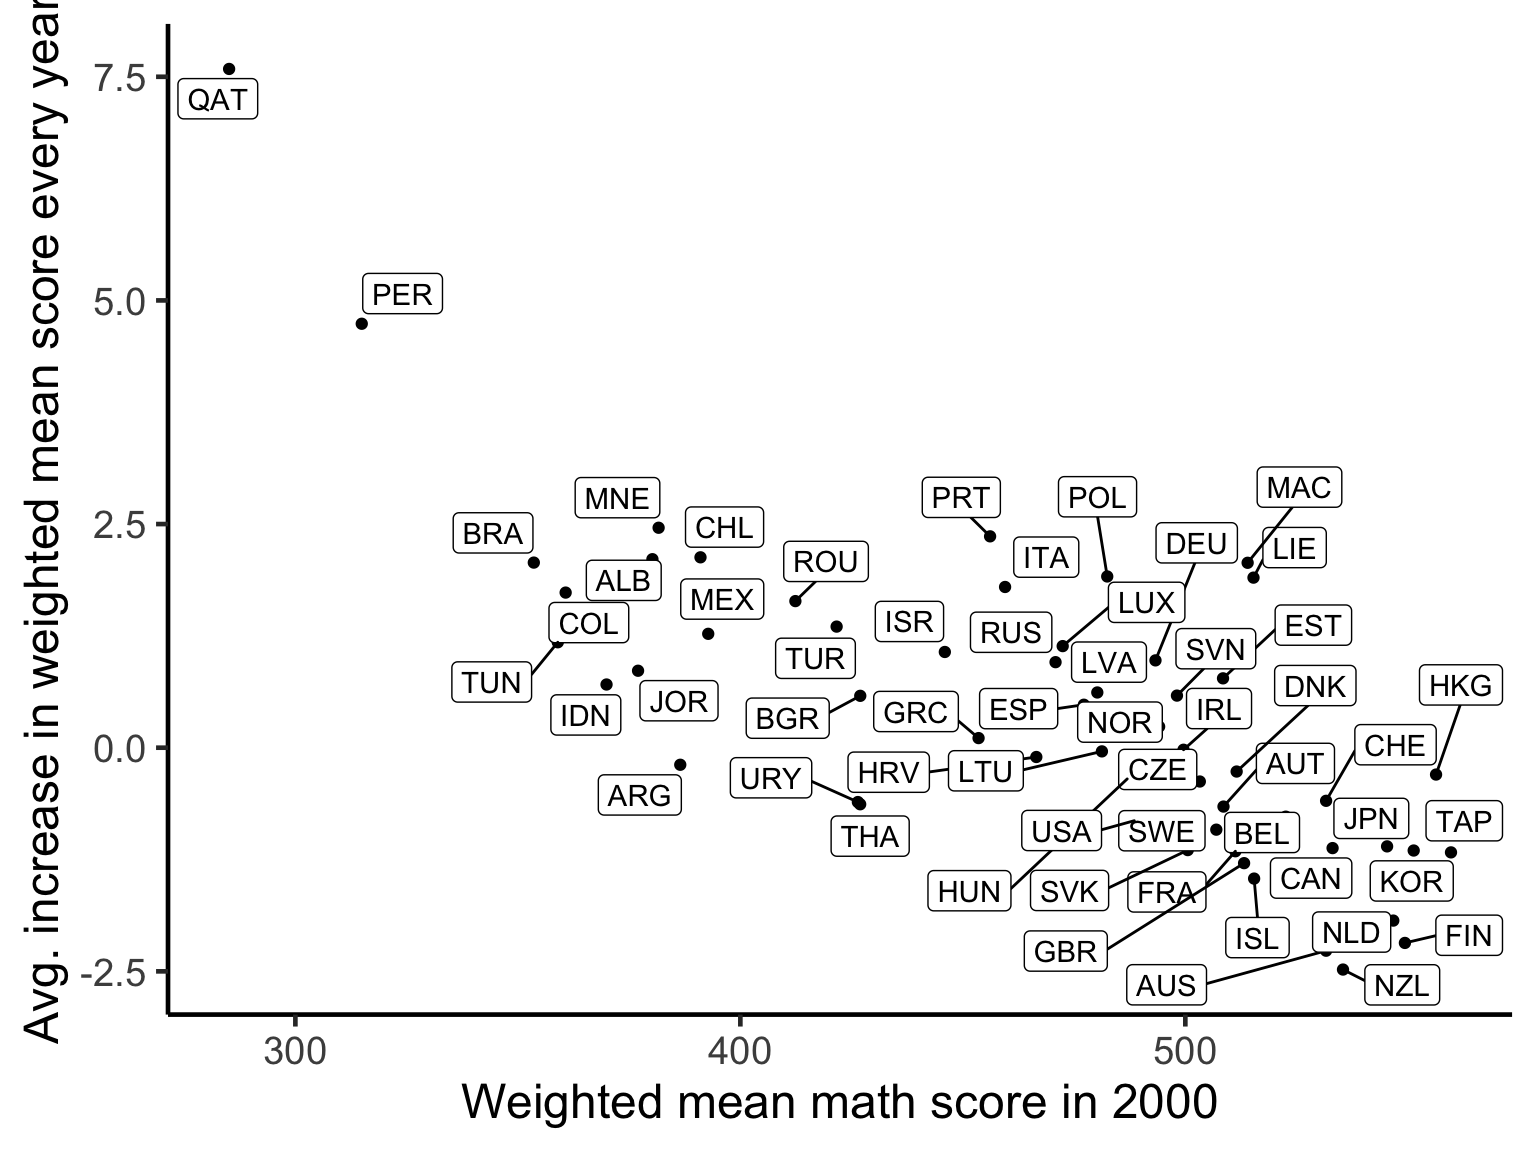
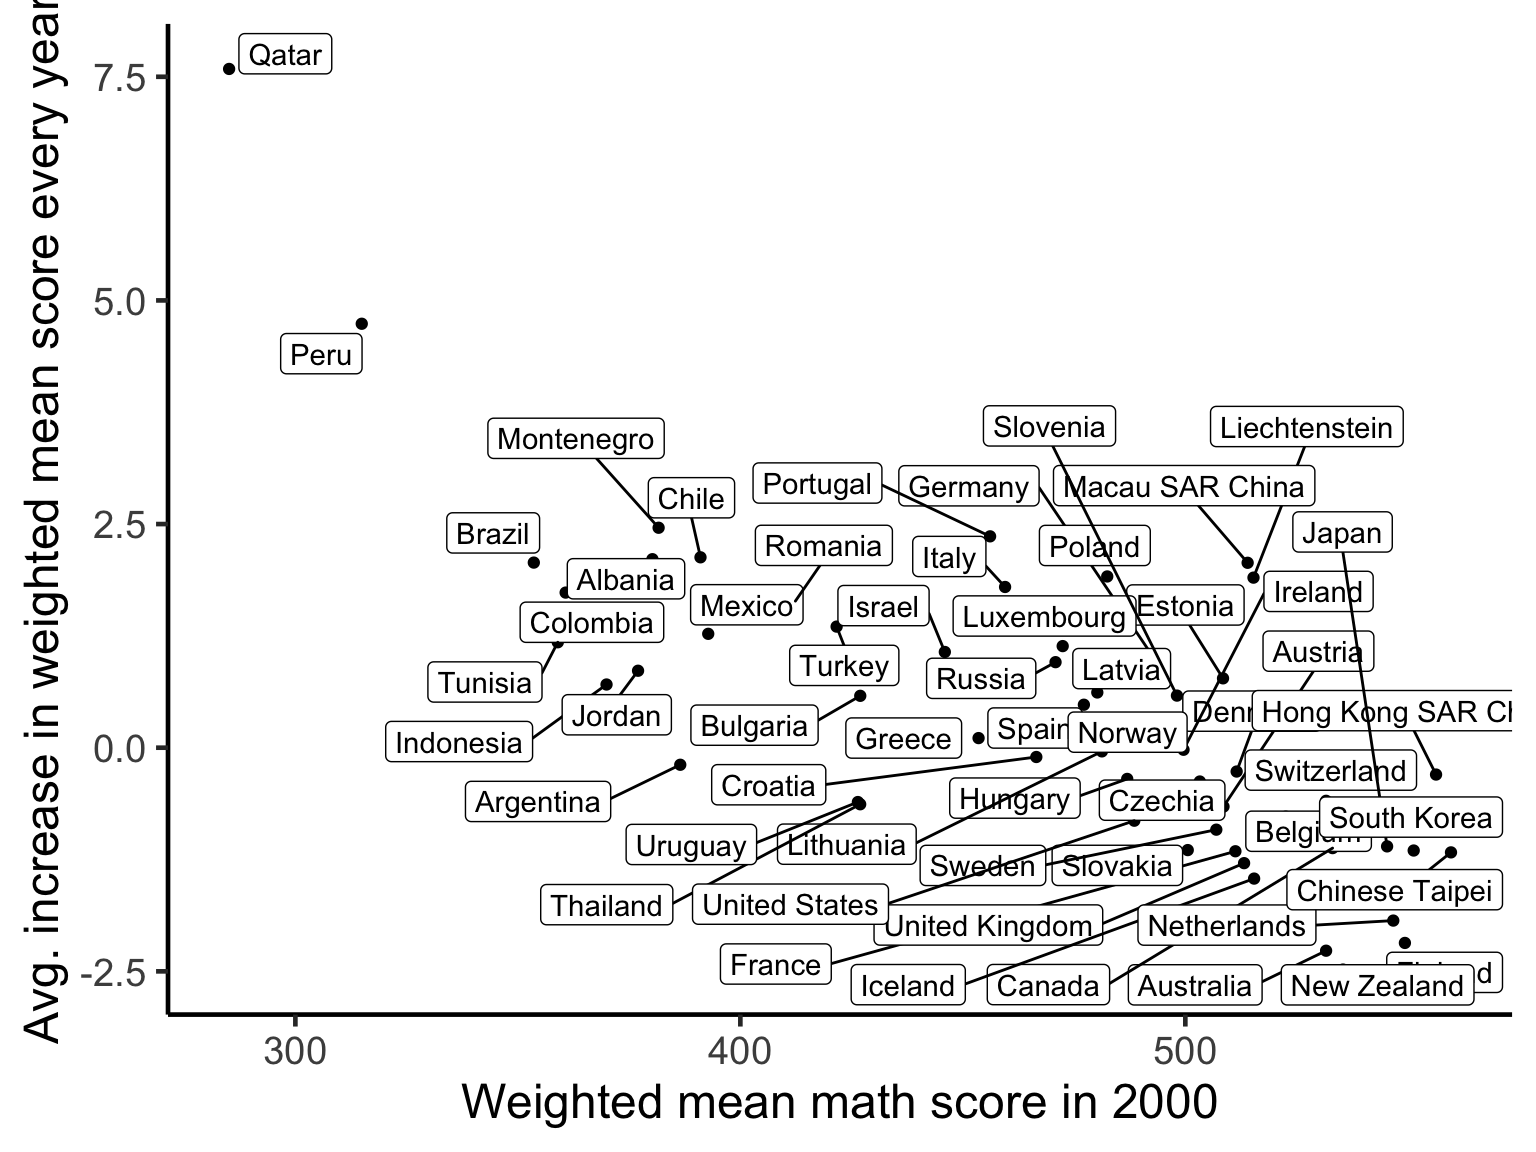
Built site for learningtower: 0.0.0.9000@6f73641

diff --git a/articles/exploring_time.html b/articles/exploring_time.html
@@ -107,6 +107,7 @@
 <span class="fu"><a href="https://rdrr.io/r/base/library.html">library</a></span>(<span class="no">tsibble</span>)
 
 <span class="fu"><a href="https://rdrr.io/r/utils/data.html">data</a></span>(<span class="no">student</span>)
+<span class="fu"><a href="https://rdrr.io/r/utils/data.html">data</a></span>(<span class="no">countrycode</span>)
 <span class="fu">theme_set</span>(<span class="fu">theme_classic</span>(<span class="fl">18</span>) +
             <span class="fu">theme</span>(<span class="kw">legend.position</span> <span class="kw">=</span> <span class="st">"bottom"</span>))</pre></body></html></div>
 </div>
@@ -199,12 +200,13 @@
     <span class="no">year_subtract</span>,
     <span class="no">country</span>,
     <span class="no">math_wmean</span>) <span class="kw">%&gt;%</span>
-  <span class="fu"><a href="https://rdrr.io/pkg/brolgar/man/key_slope.html">key_slope</a></span>(<span class="no">math_wmean</span> ~ <span class="no">year_subtract</span>)
+  <span class="fu"><a href="https://rdrr.io/pkg/brolgar/man/key_slope.html">key_slope</a></span>(<span class="no">math_wmean</span> ~ <span class="no">year_subtract</span>) <span class="kw">%&gt;%</span>
+  <span class="fu">left_join</span>(<span class="no">countrycode</span>, <span class="kw">by</span> <span class="kw">=</span> <span class="st">"country"</span>)
 
 <span class="no">math_slope</span> <span class="kw">%&gt;%</span>
   <span class="fu">ggplot</span>(<span class="fu"><a href="https://rdrr.io/pkg/gghighlight/man/reexports.html">aes</a></span>(<span class="kw">x</span> <span class="kw">=</span> <span class="no">.intercept</span>, <span class="kw">y</span> <span class="kw">=</span> <span class="no">.slope_year_subtract</span>)) +
   <span class="fu">geom_point</span>() +
-  <span class="fu"><a href="https://rdrr.io/pkg/ggrepel/man/geom_text_repel.html">geom_label_repel</a></span>(<span class="fu"><a href="https://rdrr.io/pkg/gghighlight/man/reexports.html">aes</a></span>(<span class="kw">label</span> <span class="kw">=</span> <span class="no">country</span>)) +
+  <span class="fu"><a href="https://rdrr.io/pkg/ggrepel/man/geom_text_repel.html">geom_label_repel</a></span>(<span class="fu"><a href="https://rdrr.io/pkg/gghighlight/man/reexports.html">aes</a></span>(<span class="kw">label</span> <span class="kw">=</span> <span class="no">country_name</span>)) +
   <span class="fu">labs</span>(<span class="kw">x</span> <span class="kw">=</span> <span class="st">"Weighted mean math score in 2000"</span>,
        <span class="kw">y</span> <span class="kw">=</span> <span class="st">"Avg. increase in weighted mean score every year"</span>)</pre></body></html></div>
 <p><img src="exploring_time_files/figure-html/unnamed-chunk-4-1.png" width="768"></p>
@@ -216,14 +218,17 @@
 <span class="no">math_slope_near</span>
 <span class="co">#&gt; # A tibble: 5 x 5</span>
 <span class="co">#&gt;   country .slope_year_subtract stat  stat_value stat_diff</span>
-<span class="co">#&gt;   &lt;fct&gt;                  &lt;dbl&gt; &lt;fct&gt;      &lt;dbl&gt;     &lt;dbl&gt;</span>
+<span class="co">#&gt;   &lt;chr&gt;                  &lt;dbl&gt; &lt;fct&gt;      &lt;dbl&gt;     &lt;dbl&gt;</span>
 <span class="co">#&gt; 1 NZL                   -2.48  min       -2.48     0     </span>
 <span class="co">#&gt; 2 USA                   -0.816 q_25      -0.797    0.0187</span>
 <span class="co">#&gt; 3 GRC                    0.107 med        0.172    0.0641</span>
 <span class="co">#&gt; 4 TUR                    1.35  q_75       1.32     0.0336</span>
-<span class="co">#&gt; 5 QAT                    7.59  max        7.59     0</span>
-
-<span class="co"># math_features &lt;- complete_nations %&gt;% </span>
+<span class="co">#&gt; 5 QAT                    7.59  max        7.59     0</span></pre></body></html></div>
+</div>
+<div id="highlighting-monotone-countries-for-subjects" class="section level2">
+<h2 class="hasAnchor">
+<a href="#highlighting-monotone-countries-for-subjects" class="anchor"></a>Highlighting monotone countries for subjects</h2>
+<div class="sourceCode" id="cb7"><html><body><pre class="r"><span class="co"># math_features &lt;- complete_nations %&gt;% </span>
 <span class="co">#   features(math_wmean, feat_brolgar)</span>
 <span class="co"># </span>
 <span class="co"># math_features</span>
@@ -245,22 +250,23 @@
   <span class="fu">pivot_longer</span>(<span class="kw">cols</span> <span class="kw">=</span> <span class="fu">contains</span>(<span class="st">"_wmean"</span>),
                <span class="kw">names_to</span> <span class="kw">=</span> <span class="st">"subject"</span>,
                <span class="kw">values_to</span> <span class="kw">=</span> <span class="st">"wmean_value"</span>) <span class="kw">%&gt;%</span>
-  <span class="fu">left_join</span>(<span class="no">feature_monotone_long</span>, <span class="kw">by</span> <span class="kw">=</span> <span class="fu"><a href="https://rdrr.io/r/base/c.html">c</a></span>(<span class="st">"country"</span>, <span class="st">"subject"</span>))
+  <span class="fu">left_join</span>(<span class="no">feature_monotone_long</span>, <span class="kw">by</span> <span class="kw">=</span> <span class="fu"><a href="https://rdrr.io/r/base/c.html">c</a></span>(<span class="st">"country"</span>, <span class="st">"subject"</span>)) <span class="kw">%&gt;%</span>
+  <span class="fu">left_join</span>(<span class="no">countrycode</span>, <span class="kw">by</span> <span class="kw">=</span> <span class="st">"country"</span>)
 
 <span class="no">plot_tbl</span>
-<span class="co">#&gt; # A tibble: 2,130 x 6</span>
-<span class="co">#&gt;     year country subject       wmean_value direction monotone_value</span>
-<span class="co">#&gt;    &lt;int&gt; &lt;fct&gt;   &lt;chr&gt;               &lt;dbl&gt; &lt;chr&gt;     &lt;lgl&gt;         </span>
-<span class="co">#&gt;  1  2000 ALB     math_wmean           395. increase  FALSE         </span>
-<span class="co">#&gt;  2  2000 ALB     math_wmean           395. decrease  FALSE         </span>
-<span class="co">#&gt;  3  2000 ALB     read_wmean           354. increase  TRUE          </span>
-<span class="co">#&gt;  4  2000 ALB     read_wmean           354. decrease  FALSE         </span>
-<span class="co">#&gt;  5  2000 ALB     science_wmean        378. increase  FALSE         </span>
-<span class="co">#&gt;  6  2000 ALB     science_wmean        378. decrease  FALSE         </span>
-<span class="co">#&gt;  7  2009 ALB     math_wmean           377. increase  FALSE         </span>
-<span class="co">#&gt;  8  2009 ALB     math_wmean           377. decrease  FALSE         </span>
-<span class="co">#&gt;  9  2009 ALB     read_wmean           385. increase  TRUE          </span>
-<span class="co">#&gt; 10  2009 ALB     read_wmean           385. decrease  FALSE         </span>
+<span class="co">#&gt; # A tibble: 2,130 x 7</span>
+<span class="co">#&gt;     year country subject       wmean_value direction monotone_value country_name</span>
+<span class="co">#&gt;    &lt;int&gt; &lt;chr&gt;   &lt;chr&gt;               &lt;dbl&gt; &lt;chr&gt;     &lt;lgl&gt;          &lt;chr&gt;       </span>
+<span class="co">#&gt;  1  2000 ALB     math_wmean           395. increase  FALSE          Albania     </span>
+<span class="co">#&gt;  2  2000 ALB     math_wmean           395. decrease  FALSE          Albania     </span>
+<span class="co">#&gt;  3  2000 ALB     read_wmean           354. increase  TRUE           Albania     </span>
+<span class="co">#&gt;  4  2000 ALB     read_wmean           354. decrease  FALSE          Albania     </span>
+<span class="co">#&gt;  5  2000 ALB     science_wmean        378. increase  FALSE          Albania     </span>
+<span class="co">#&gt;  6  2000 ALB     science_wmean        378. decrease  FALSE          Albania     </span>
+<span class="co">#&gt;  7  2009 ALB     math_wmean           377. increase  FALSE          Albania     </span>
+<span class="co">#&gt;  8  2009 ALB     math_wmean           377. decrease  FALSE          Albania     </span>
+<span class="co">#&gt;  9  2009 ALB     read_wmean           385. increase  TRUE           Albania     </span>
+<span class="co">#&gt; 10  2009 ALB     read_wmean           385. decrease  FALSE          Albania     </span>
 <span class="co">#&gt; # … with 2,120 more rows</span>
 
 <span class="no">plot_tbl</span> <span class="kw">%&gt;%</span>
@@ -268,16 +274,16 @@
              <span class="kw">y</span> <span class="kw">=</span> <span class="no">wmean_value</span>,
              <span class="kw">group</span> <span class="kw">=</span> <span class="fu"><a href="https://rdrr.io/r/base/interaction.html">interaction</a></span>(<span class="no">country</span>, <span class="no">subject</span>))) +
   <span class="fu">geom_line</span>() +
-  <span class="kw pkg">gghighlight</span><span class="kw ns">::</span><span class="fu"><a href="https://rdrr.io/pkg/gghighlight/man/gghighlight.html">gghighlight</a></span>(<span class="no">monotone_value</span>, <span class="kw">label_key</span> <span class="kw">=</span> <span class="no">country</span>) +
+  <span class="kw pkg">gghighlight</span><span class="kw ns">::</span><span class="fu"><a href="https://rdrr.io/pkg/gghighlight/man/gghighlight.html">gghighlight</a></span>(<span class="no">monotone_value</span>, <span class="kw">label_key</span> <span class="kw">=</span> <span class="no">country_name</span>) +
   <span class="fu">facet_grid</span>(<span class="no">direction</span>~<span class="no">subject</span>) +
   <span class="fu">labs</span>(<span class="kw">x</span> <span class="kw">=</span> <span class="st">"Year"</span>, <span class="kw">y</span> <span class="kw">=</span> <span class="st">"Weighted means"</span>)</pre></body></html></div>
-<p><img src="exploring_time_files/figure-html/unnamed-chunk-4-2.png" width="768"></p>
+<p><img src="exploring_time_files/figure-html/unnamed-chunk-5-1.png" width="768"></p>
 </div>
 </div>
 <div id="session-info" class="section level1">
 <h1 class="hasAnchor">
 <a href="#session-info" class="anchor"></a>Session info</h1>
-<div class="sourceCode" id="cb7"><html><body><pre class="r"><span class="fu"><a href="https://rdrr.io/r/utils/sessionInfo.html">sessionInfo</a></span>()
+<div class="sourceCode" id="cb8"><html><body><pre class="r"><span class="fu"><a href="https://rdrr.io/r/utils/sessionInfo.html">sessionInfo</a></span>()
 <span class="co">#&gt; R version 4.0.0 (2020-04-24)</span>
 <span class="co">#&gt; Platform: x86_64-apple-darwin17.0 (64-bit)</span>
 <span class="co">#&gt; Running under: macOS Catalina 10.15.4</span>
